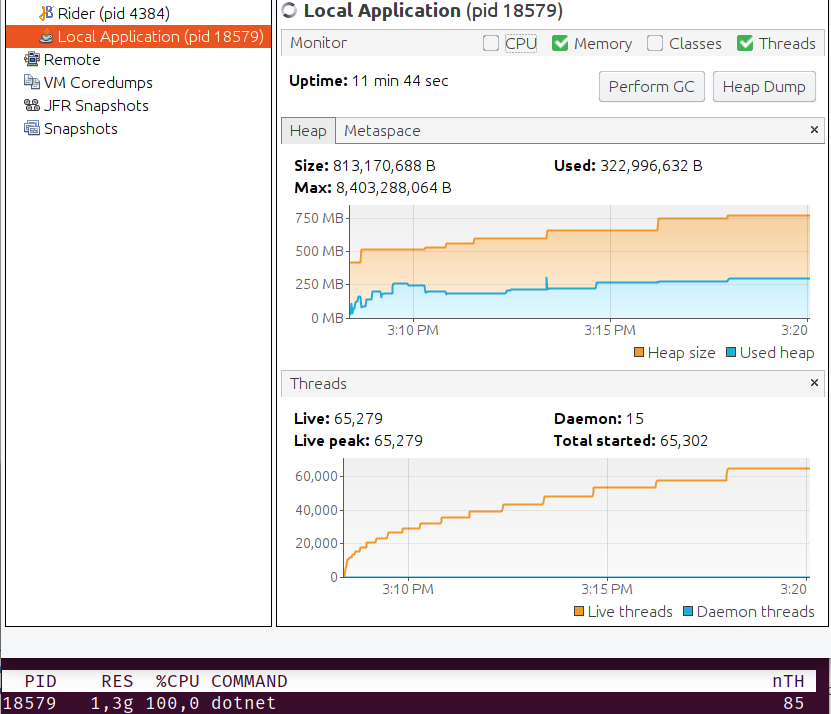
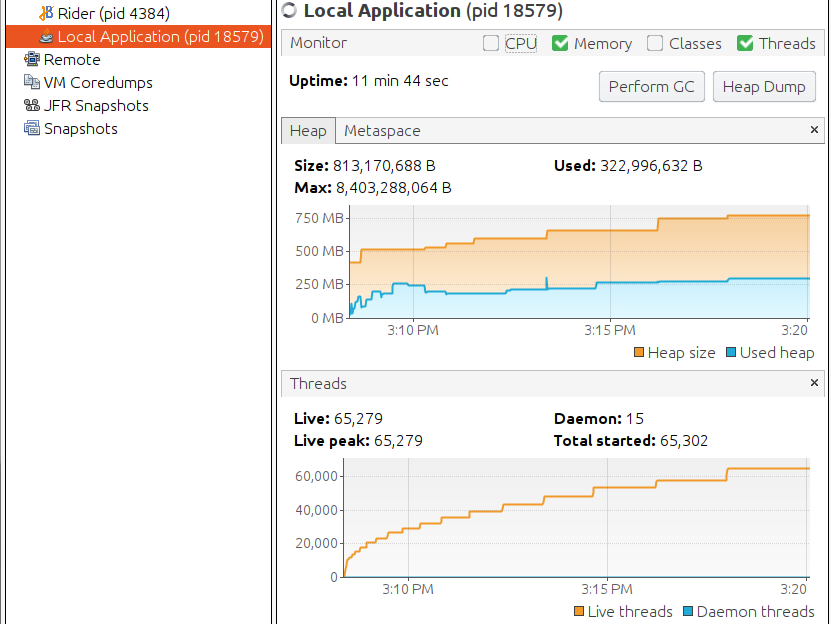
Split screenshot in two

diff --git a/_posts/2020-04-18-Ignite-JNI-Thread-Detach.md b/_posts/2020-04-18-Ignite-JNI-Thread-Detach.md
@@ -26,15 +26,19 @@ while (true)
 
 When you run this on Ignite.NET version 2.4 .. 2.7.6, the following happens:
 
-![ignite logo](../images/jni-thread-leak.png)
+![VisualVm](../images/jni-thread-leak.png)
 
-[VisualVm](https://visualvm.github.io/) is on top, showing `65279` Java threads. [Linux top](https://linux.die.net/man/1/top) fragment is at the bottom, showing `85` OS threads (rightmost `nTH` column).
+[VisualVm](https://visualvm.github.io/) shows `65279` Java threads. 
+
+![top](../images/jni-thread-leak-2.png)
+
+[Top](https://linux.die.net/man/1/top) shows `85` OS threads.
 
 Memory consumption is not that bad here, but creating new threads becomes slower and slower: here we see 65K threads created in 11 minutes, while after the bugfix the same program can start/stop 65K threads in 30 seconds.
 
 Java uses native threads, there is no green thread magic here. So what is going on? How is that possible?
 
-Note that manual thread management is a rarity in modern .NET, most people use `ThreadPool` directly or via `Task` APIs, which makes this bug hardly noticeable - threads rarely start and stop. So this issue took a while to surface.
+Note that manual thread management is a rarity in modern .NET, most people use `ThreadPool` directly or via `Task` APIs, which makes this bug stealthy - threads rarely start and stop. So this issue took a while to surface.
 
 
 # JNI and Threads
